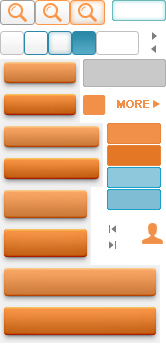
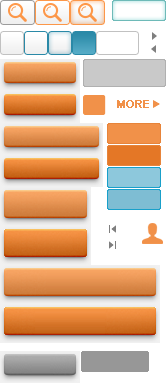
增加灰色按钮样式

diff --git a/aggregator-web/src/main/webapp/css/master.css b/aggregator-web/src/main/webapp/css/master.css
@@ -262,7 +262,7 @@
     .font-darkblue a:link,.font-darkblue a:visited,a.font-darkblue:link,a.font-darkblue:visited{color: #257aa7;}
     .font-darkblue a:hover,.font-darkblue a:active,a.font-darkblue:hover,a.font-darkblue:active{color:#35aebd;}
 
-	.an_small,.an_small_long{
+	.an_small,.an_small_long,.an_gray_small{
 	height:28px;
 	background: url(images/bg08_131230.png) no-repeat 0 -59px;
 	text-align: center;
@@ -272,7 +272,8 @@
 	padding-top:4px;
 	display: inline-block;
 }
-	.an_small{width:80px;}
+	.an_small,.an_gray_small{width:80px;}
+	.an_gray_small{background-position: 0 -351px; color:#fff;}
 	.an_small_long{width:103px;background-position:0 -123px;}
     a.an_small,a.an_small_long,a.an_big,a.an_big_long{color:#fff;}
 	a.an_small:hover{background-position:0 -91px;}
@@ -295,7 +296,7 @@
 	a.an_big:hover{background-position:0 -226px;}
 	a.an_big_long:hover{background-position:0 -304px;}
 
-	.an_public1{
+	.an_public1,.an_gray_public1{
 	width:68px;
 	height:21px;
 	background: url(images/bg10_131230.png) no-repeat -156px -150px;
@@ -307,6 +308,7 @@
 	vertical-align: middle;
 	color:#fff;
 }
+    .an_gray_public1{background: url(images/bg08_131230.png) no-repeat -81px -351px;}
 	a.an_public1{color:#fff;}
 	a.an_public1:hover{background-position:-156px -172px;}
 

diff --git a/aggregator-web/src/main/webapp/js/teachpaltform/course.js b/aggregator-web/src/main/webapp/js/teachpaltform/course.js
@@ -217,6 +217,9 @@ function addTeacherCourse(){
     $("#selectedCourse li").each(function(ix,im){
         selectedcourseids+=$(this).attr("id")+"|";
     });
+//    $("#addButton").attr("href","");
+//    $("#addButton").removeClass("an_small");
+//    $("#addButton").addClass("an_gray_small");
     $.ajax({
         url:'teachercourse?m=addCourse',
         data:{
@@ -415,6 +418,9 @@ function updateTeacherCourse(){
     $("#selectedCourse li").each(function(ix,im){
         selectedcourseids+=$(this).attr("id")+"|";
     });
+//    $("#updateButton").attr("href","");
+//    $("#updateButton").removeClass("an_small");
+//    $("#updateButton").addClass("an_gray_small");
     $.ajax({
         url:'teachercourse?m=updateCourse',
         data:{

diff --git a/aggregator-web/src/main/webapp/css/style.css b/aggregator-web/src/main/webapp/css/style.css
@@ -131,7 +131,7 @@
 
 	.content,.content3{
 	width: 1000px;
-	min-height:280px;
+	min-height:406px;
 	background: url(images/bg03_131230.png) repeat-y;
 	margin:0 auto;
 }
@@ -156,14 +156,14 @@
 
 	.content1{
 	width: 940px;
-	min-height:280px;
+	min-height:390px;
 	background-color:#f1f1f1;
 	padding:15px 30px 1px;
 	margin:0 auto;
 }
 	.content2{
 	width: 1000px;
-	min-height:280px;
+	min-height:396px;
 	background-color:#f1f1f1;
 	padding:5px 0;
 	margin:0 auto;
@@ -265,6 +265,7 @@
 }
 	.home_layout{
 	width:1000px;
+	min-height:498px;
 	background:url(images/bg14_131230.png) repeat-y;
 	margin:0 auto;
 }
